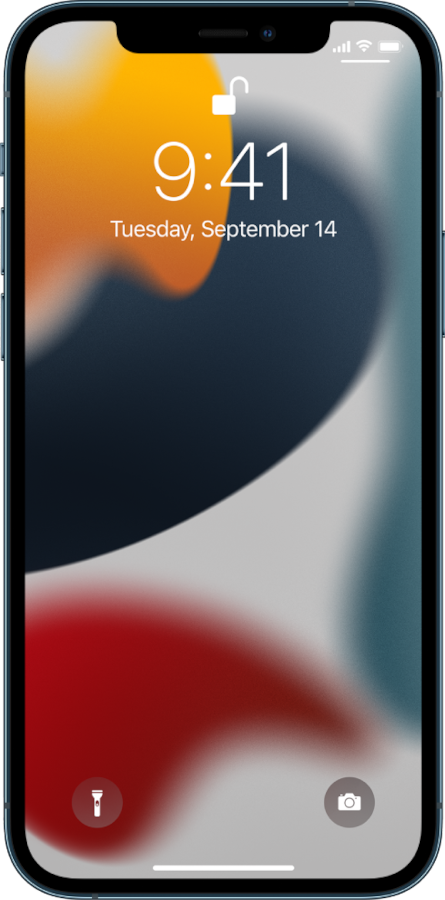
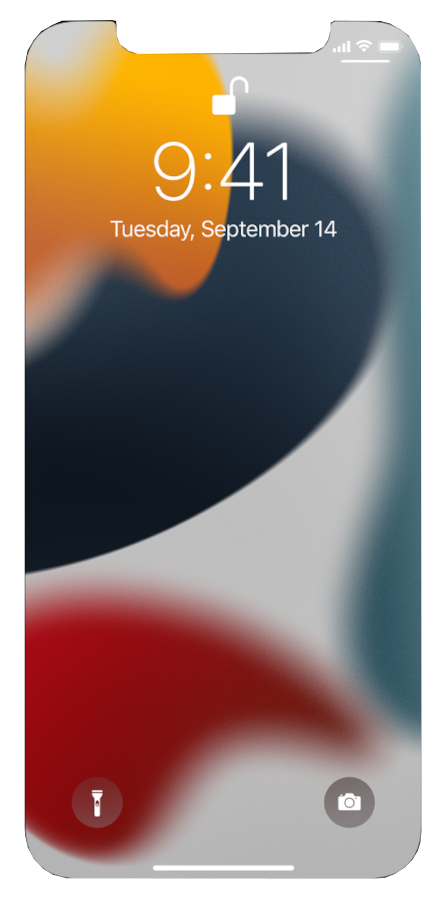
updated styles with overlaying parts of the phone image to prepare for animation implementation

Changed region(s): [[0.0, 0.0, 1.0, 1.0]]

diff --git a/styles.css b/styles.css
@@ -2,6 +2,7 @@ body {
     background-color: #69F7BE;
     color: white;
     font-family:'Franklin Gothic Medium', 'Arial Narrow', Arial, sans-serif;
+    text-align: center;
 }
 
 /* Outlined text courtesy of https://stackoverflow.com/questions/4919076/outline-effect-to-text */
@@ -11,16 +12,39 @@ body {
     -webkit-font-smoothing: antialiased
 }
 
-#phone-container {
+.phone-container {
+    z-index: 0;
+    display: inline-block;
+    height: 800px;
+    width: 395px ;
+    background-image: url(resources/img/screen-border.png);
+    background-size: cover;
+    background-repeat: no-repeat;
+    margin: 10px;
+    text-align: center;
+    vertical-align: bottom;
+}
+
+#phone-lock-screen {
+    z-index: -1;
+    position: absolute;
+    transform: translateY(0);
     height: 800px;
     width: 395px ;
     background-image: url(resources/img/lock-screen.png);
     background-size: cover;
     background-repeat: no-repeat;
-    margin: auto;
-    text-align: center;
 }
 
+#phone-home-screen {
+    z-index: -2;
+    position: absolute;
+    height: 800px;
+    width: 395px ;
+    background-image: url(resources/img/home-screen.png);
+    background-size: cover;
+    background-repeat: no-repeat;
+}
 
 #canvas {
     display: inline-block;

diff --git a/index.html b/index.html
@@ -15,14 +15,15 @@
 
 <body>
 
-    <div id="phone-container">
+    <div class="phone-container">
+        <div id="phone-home-screen"></div>
+        <div id="phone-lock-screen"></div>
         <h1 id="prompt" class="text-outlined">Write "Wa"</h1>
         <canvas id="canvas" width="300" height="300"></canvas>
         <img id="reset-button" src="resources/img/submit.png" alt="reset">
         <img id="submit-button" src="resources/img/submit.png" alt="submit">
     </div>  
 
-    
     <!-- include custom javascript -->
     <script type="text/javascript" src="scripts/dictionaries.js"></script>
     <script type="text/javascript" src="scripts/script.js"></script>

diff --git a/scripts/script.js b/scripts/script.js
@@ -28,11 +28,14 @@ $(document).ready(function(){
 
             if (prompt_char == written_char){
                 console.log("Result: Correct");
+                // Unlock
+
+
+
             } else {
                 console.log("Result: Incorrect");
                 canvas.erase();
                 user_prompt = promptUser();
-                
             }
         }
     });
